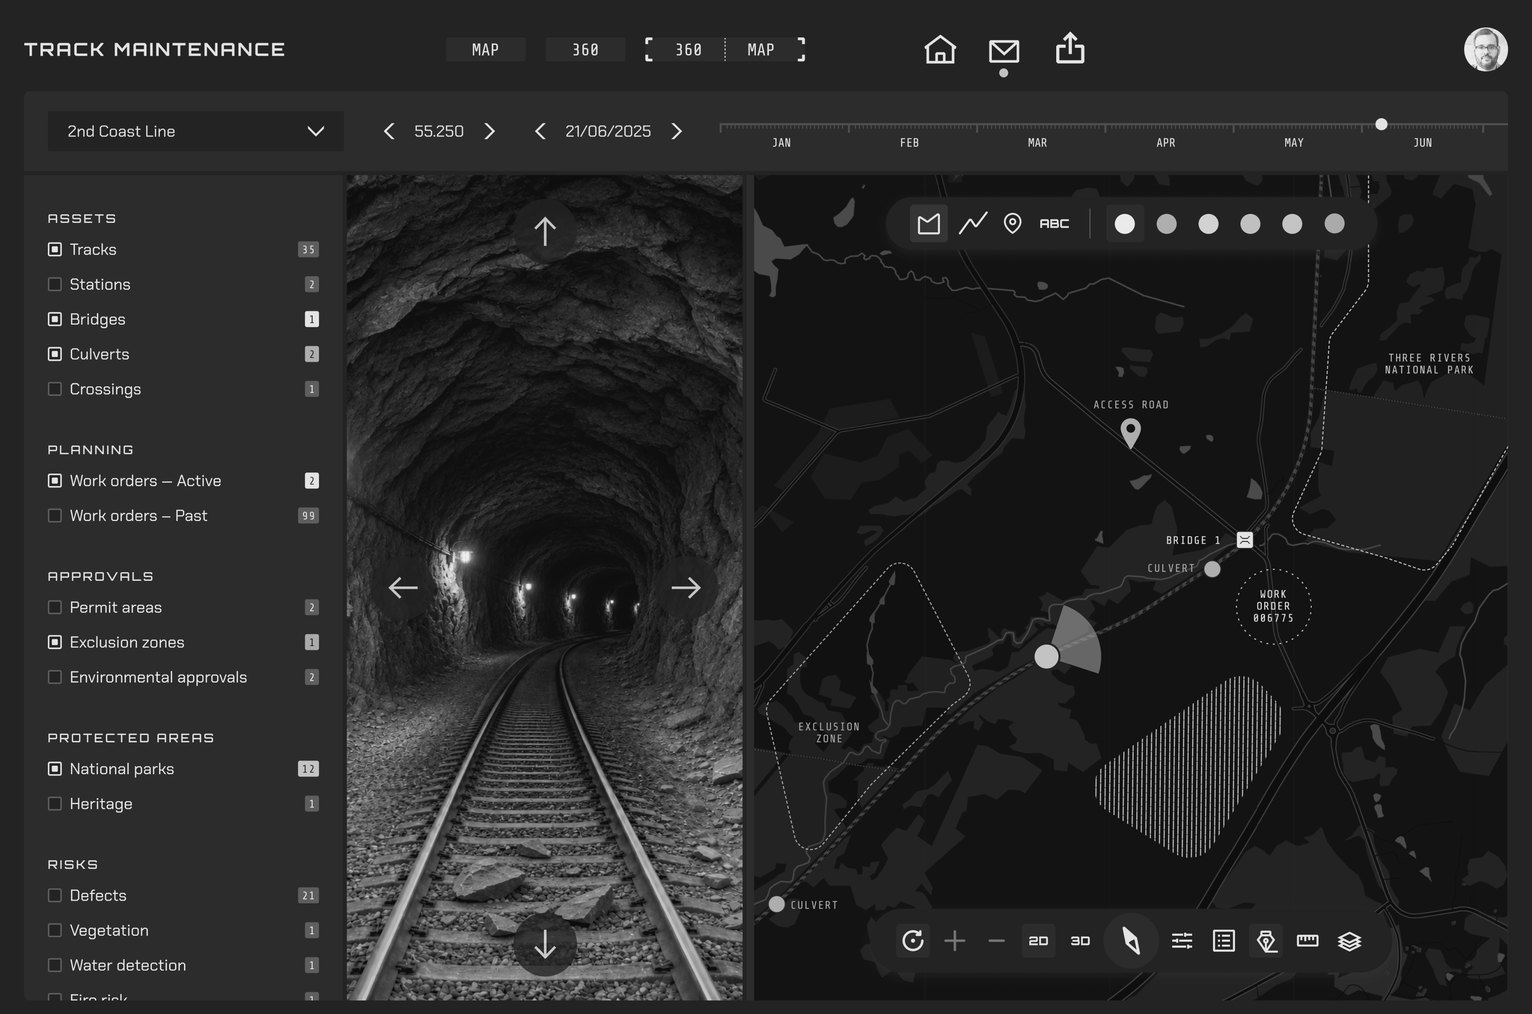
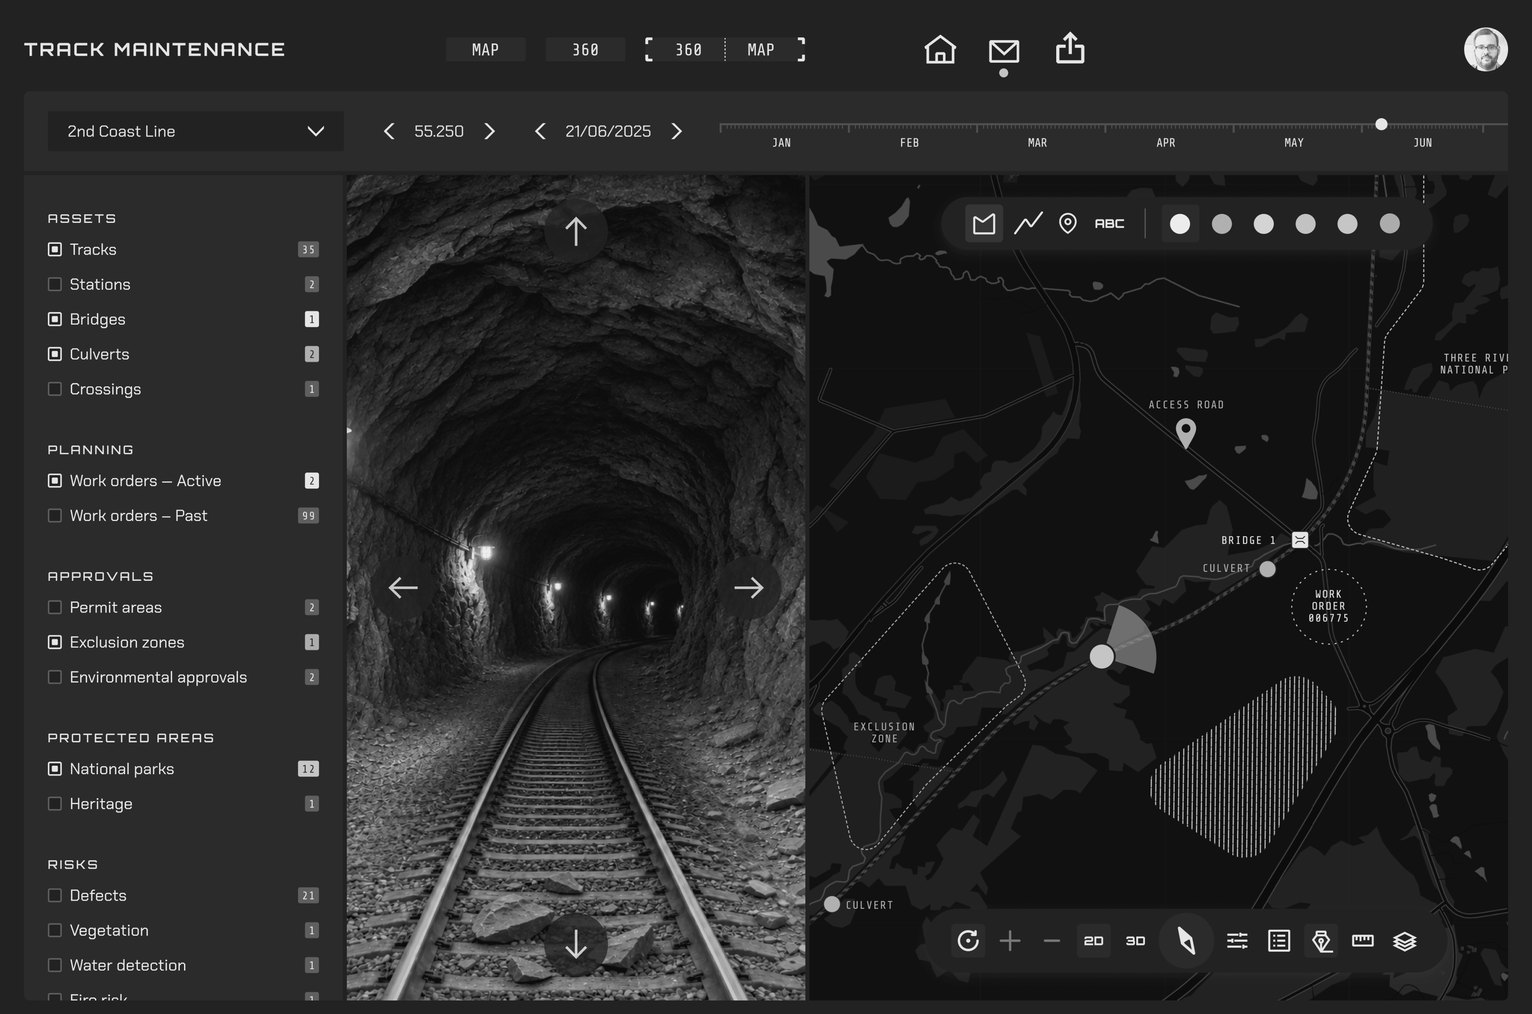
Homepage: project 1 dark/light screenshots matched again (Figma 230:428); lighter project cards #21201D

diff --git a/caveman/index.html b/caveman/index.html
@@ -29,7 +29,8 @@
     --menu-accent: #ec6039;   /* style menu's intro box */
     --accent-bg: rgba(236, 96, 57, 0.1);
     --body-black: #191613;    /* project body, black variant */
-    --body-grey: #3a3938;     /* project body, grey variant */
+    --body-grey: #3a3938;     /* recommendation cards */
+    --body-light: #21201d;    /* project body, lighter variant */
     --tab: rgba(217, 217, 217, 0.15);
     --rule: #3d414a;          /* margin line and ruled lines */
 
@@ -313,7 +314,7 @@
     background: var(--body-grey);
   }
   .project--black .project-body { background: var(--body-black); }
-  .project--grey .project-body { background: var(--body-grey); }
+  .project--grey .project-body { background: var(--body-light); }
 
   .project-num {
     position: absolute;

diff --git a/enterprise/index.html b/enterprise/index.html
@@ -28,7 +28,8 @@
     --accent: #00ffcc;
     --accent-bg: rgba(0, 255, 204, 0.1);
     --body-black: #191613;    /* project body, black variant */
-    --body-grey: #3a3938;     /* project body, grey variant */
+    --body-grey: #3a3938;     /* recommendation cards */
+    --body-light: #21201d;    /* project body, lighter variant */
     --tab: rgba(217, 217, 217, 0.15);
     --rule: #3d414a;          /* margin line and ruled lines */
 
@@ -312,7 +313,7 @@
     background: var(--body-grey);
   }
   .project--black .project-body { background: var(--body-black); }
-  .project--grey .project-body { background: var(--body-grey); }
+  .project--grey .project-body { background: var(--body-light); }
 
   .project-num {
     position: absolute;

diff --git a/index.html b/index.html
@@ -27,7 +27,8 @@
     --accent: #00ffcc;
     --accent-bg: rgba(0, 255, 204, 0.1);
     --body-black: #191613;    /* project body, black variant */
-    --body-grey: #3a3938;     /* project body, grey variant */
+    --body-grey: #3a3938;     /* recommendation cards */
+    --body-light: #21201d;    /* project body, lighter variant */
     --tab: rgba(217, 217, 217, 0.15);
     --rule: #3d414a;          /* margin line and ruled lines */
 
@@ -311,7 +312,7 @@
     background: var(--body-grey);
   }
   .project--black .project-body { background: var(--body-black); }
-  .project--grey .project-body { background: var(--body-grey); }
+  .project--grey .project-body { background: var(--body-light); }
 
   .project-num {
     position: absolute;
